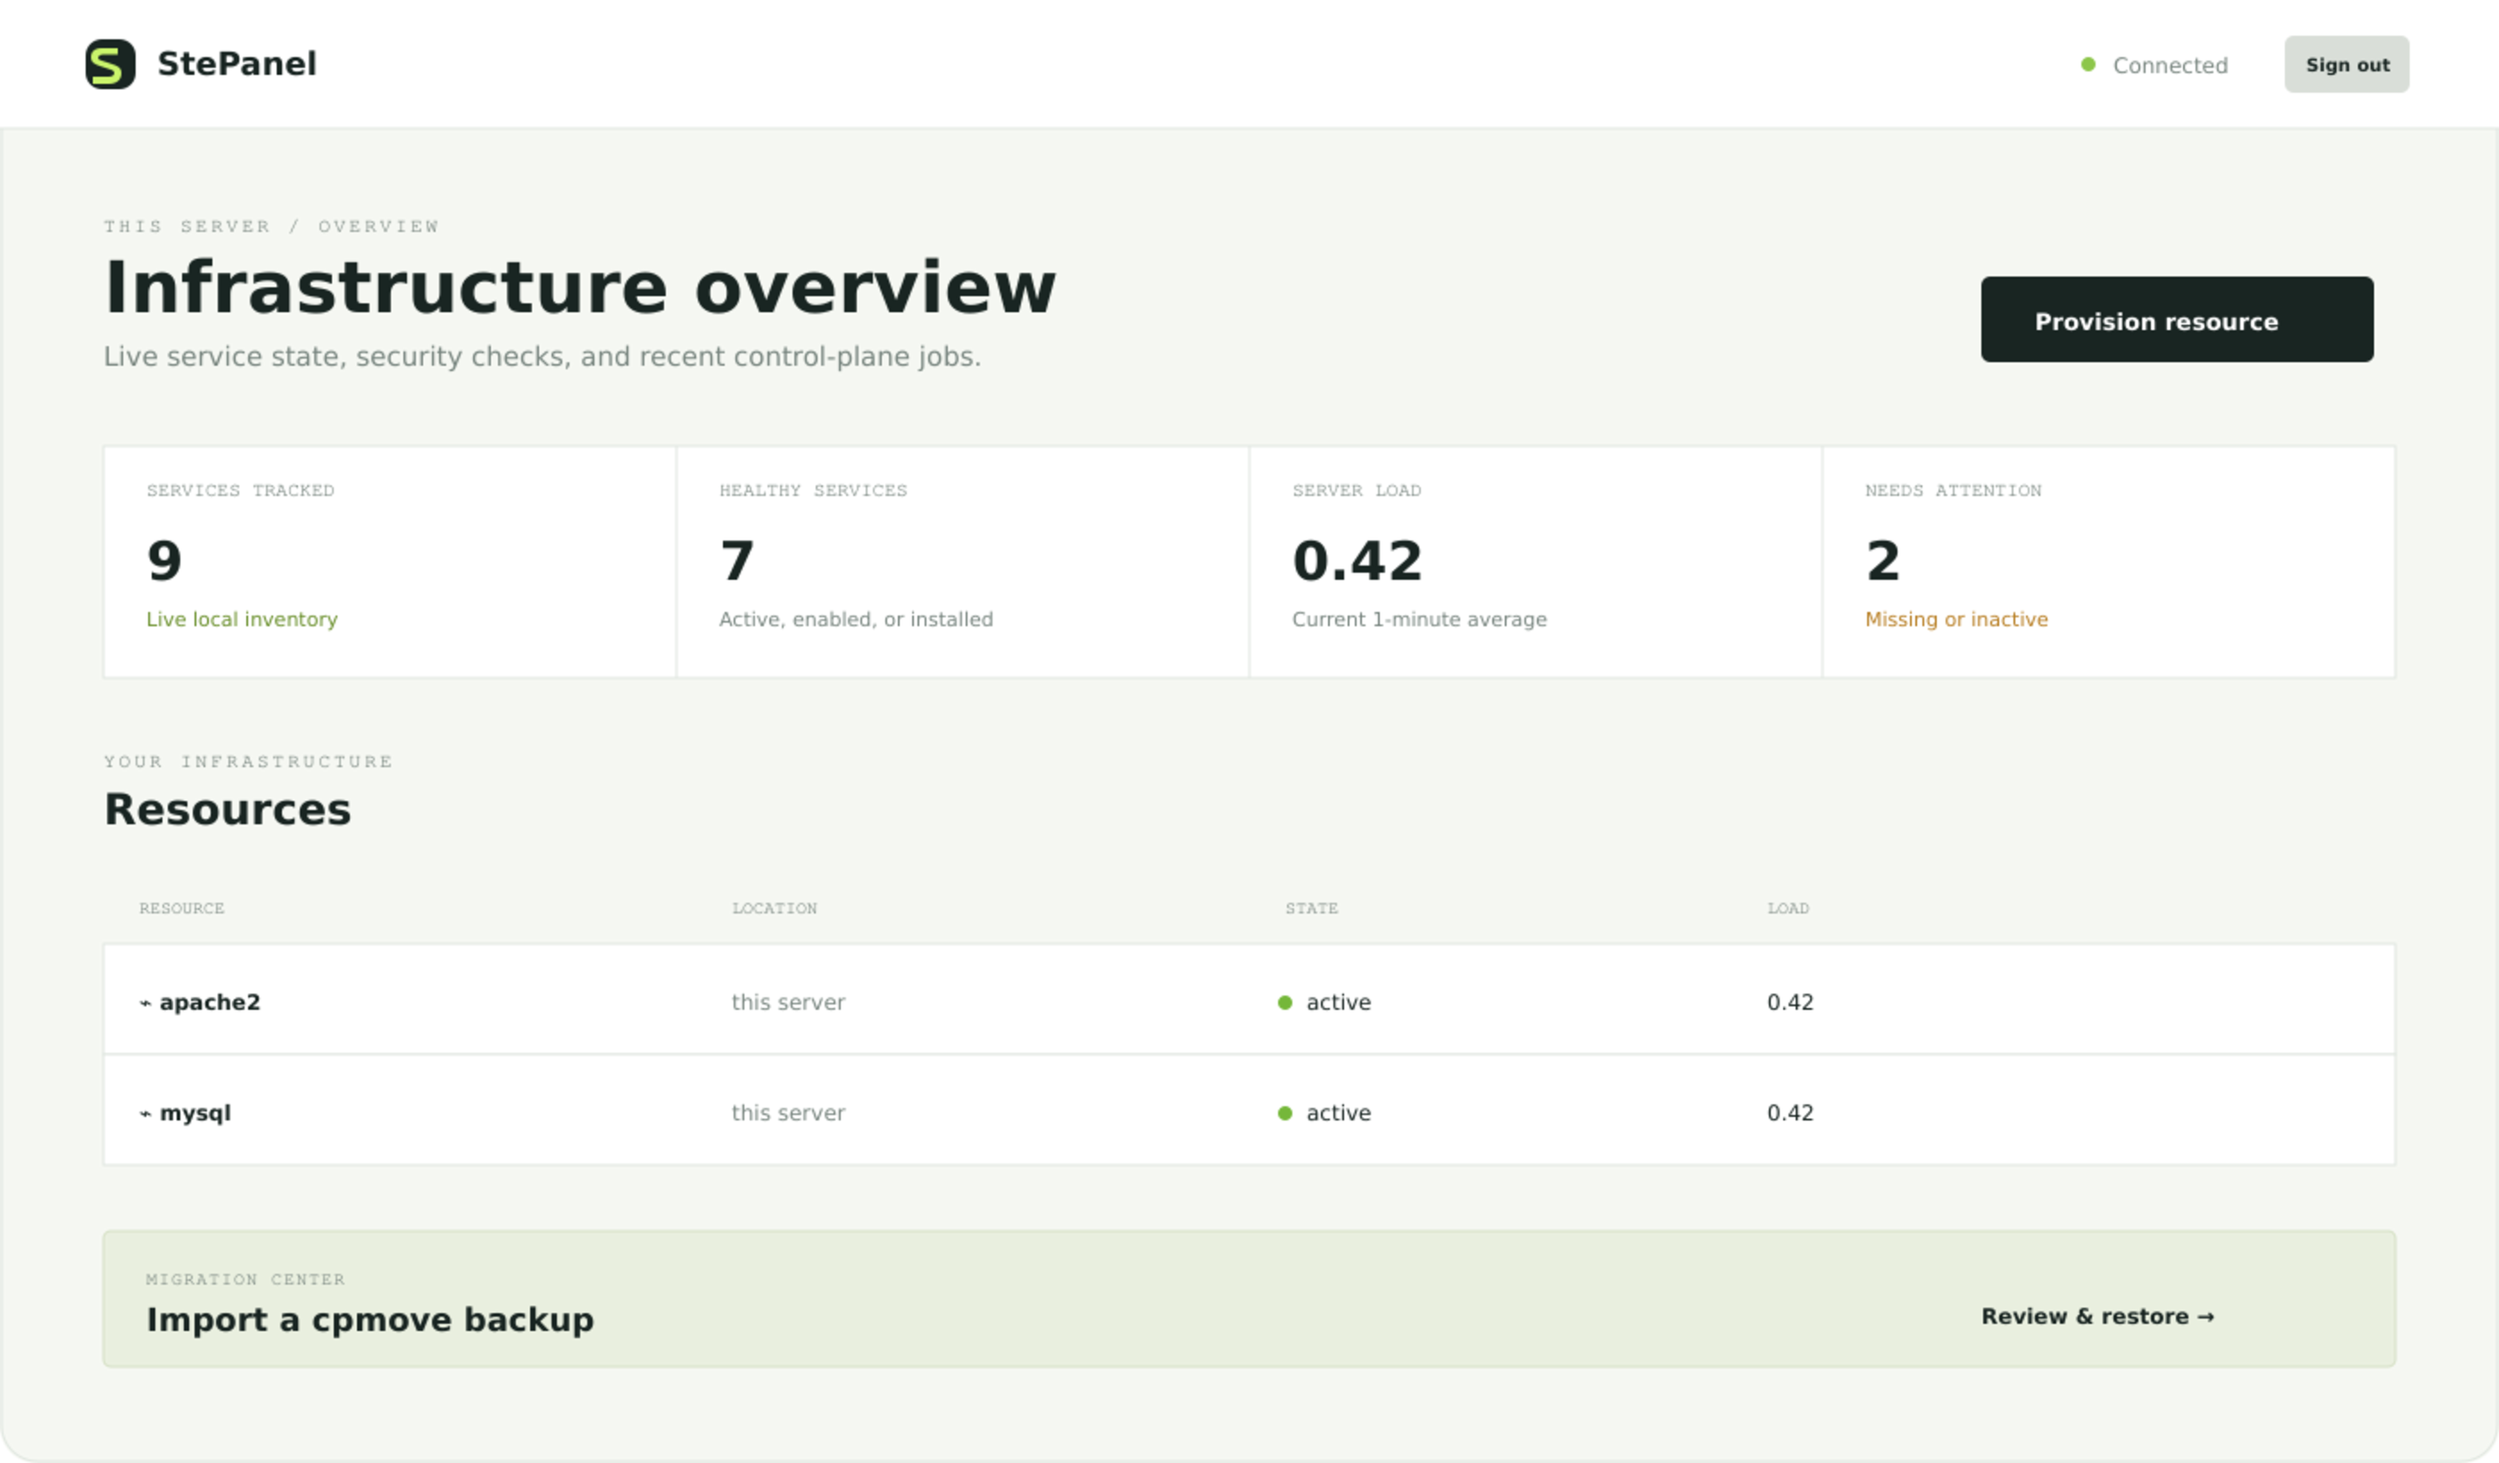
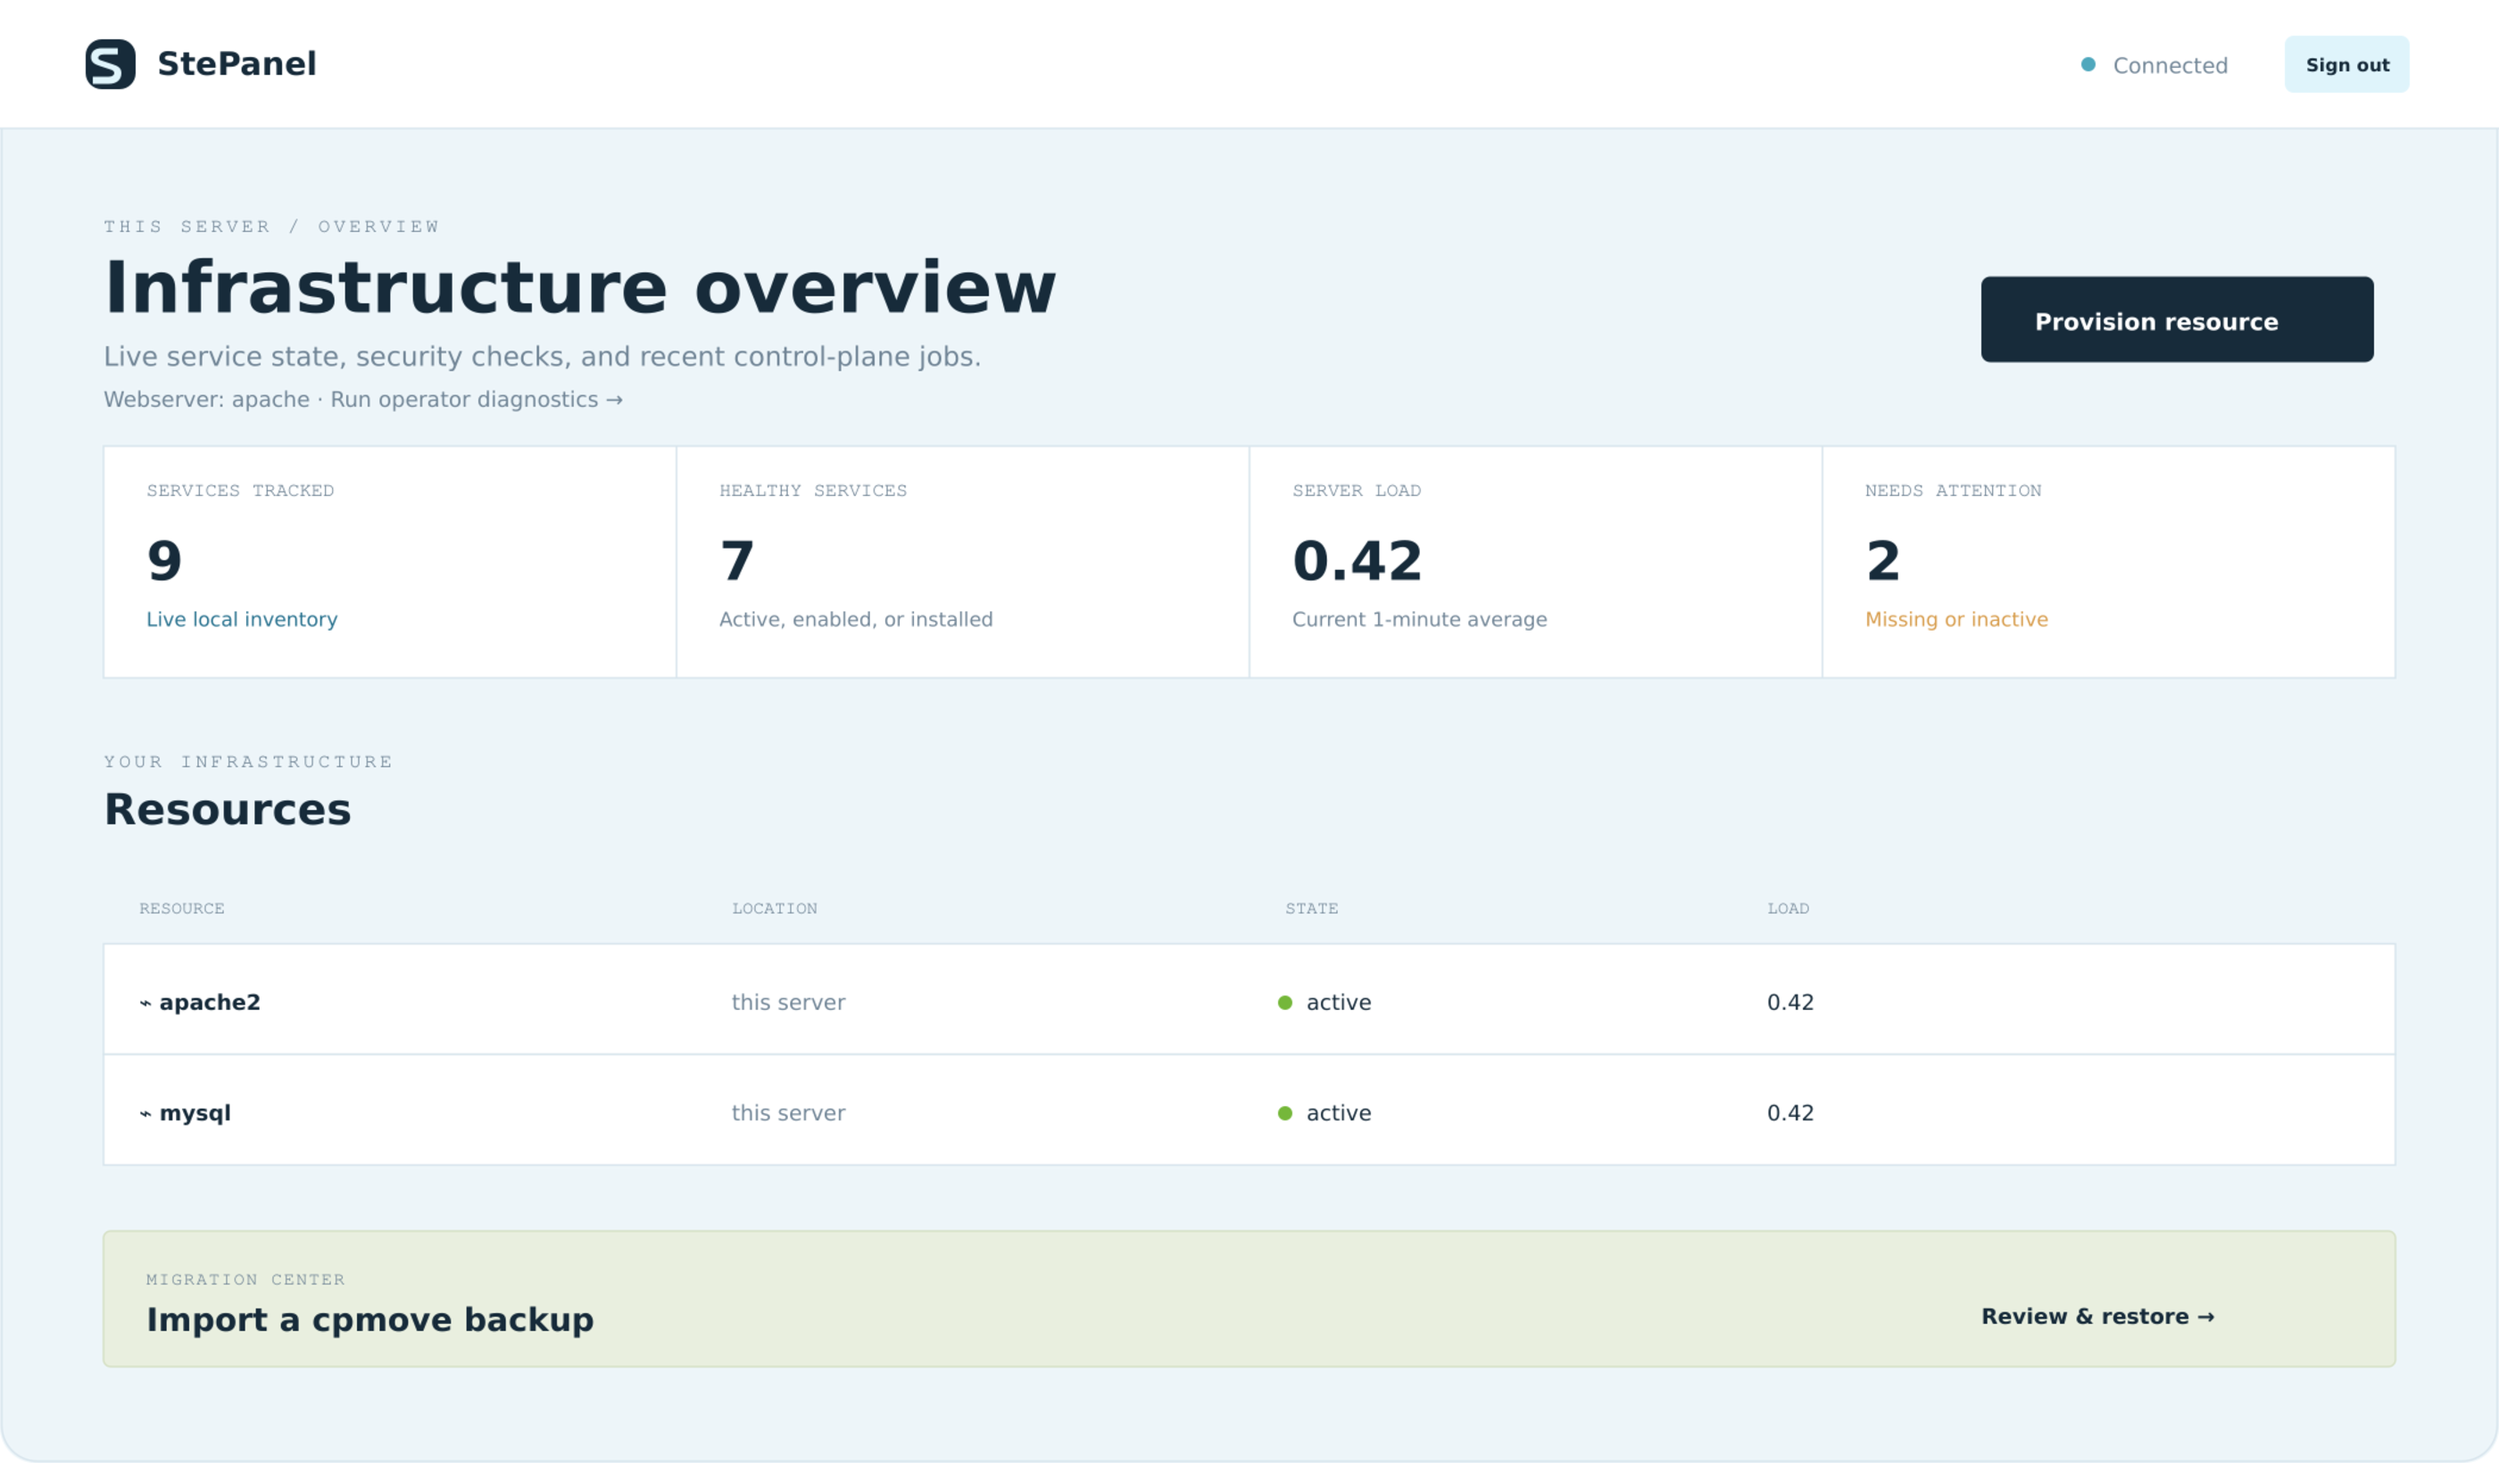
Refresh dashboard preview for current GUI

diff --git a/docs/SCREENSHOTS.md b/docs/SCREENSHOTS.md
@@ -21,7 +21,8 @@ available for presentations and product materials.
 </tr>
 </table>
 
-This illustration mirrors the dashboard structure using representative values.
+This illustration mirrors the current dashboard structure using representative
+values, including the selected webserver and direct operator-diagnostics link.
 At runtime, all service counts, health states, load, security checks, and jobs
 come from the current server; the application does not ship simulated activity.
 
